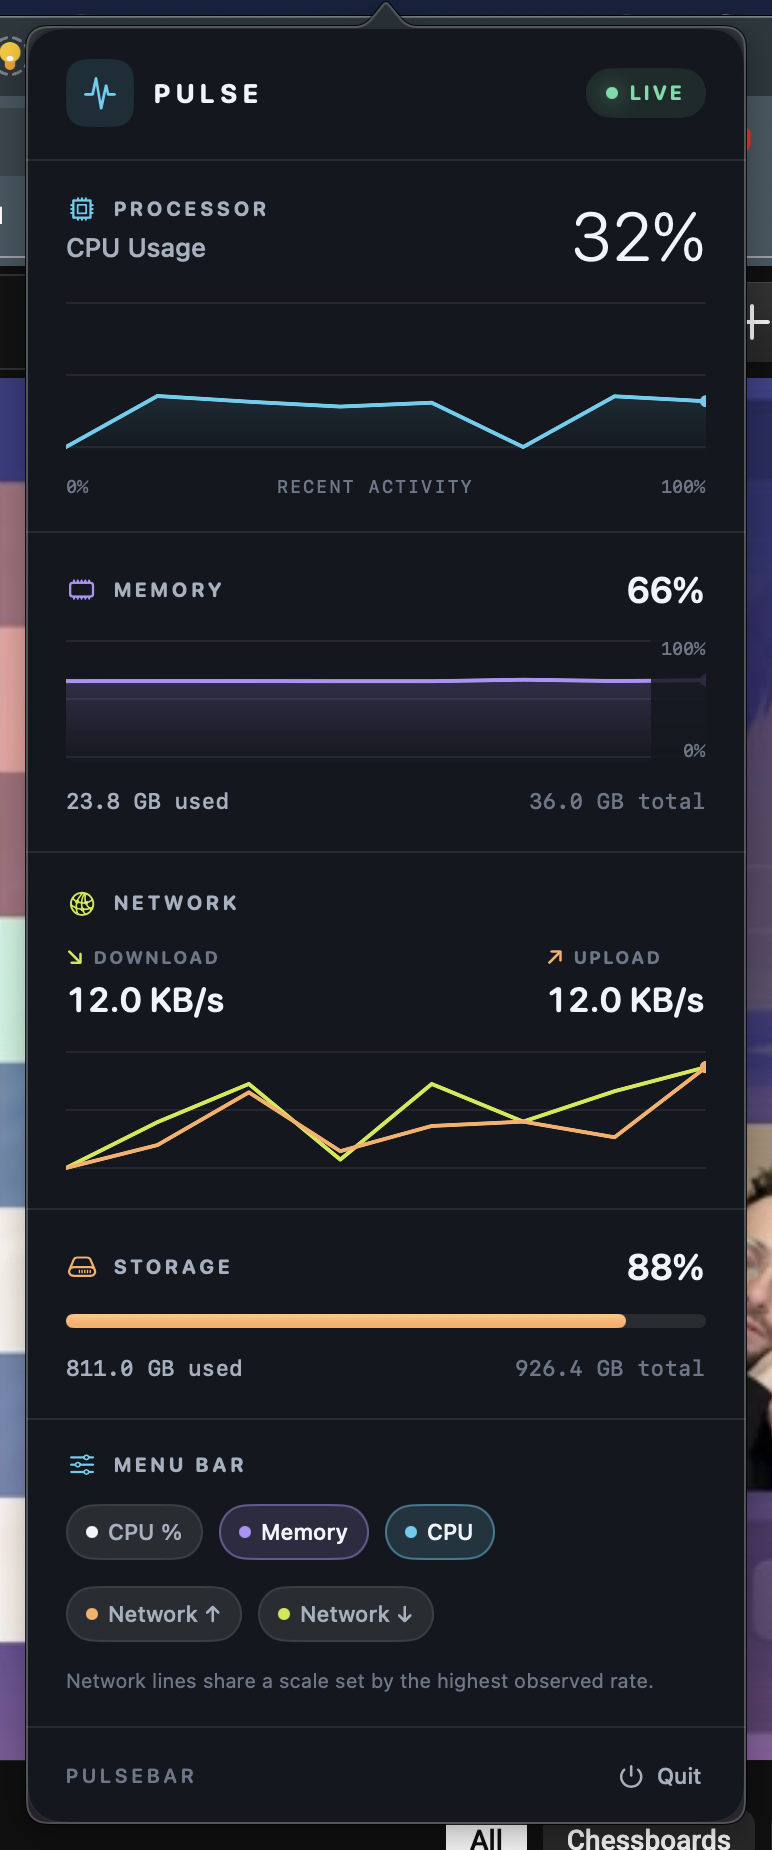
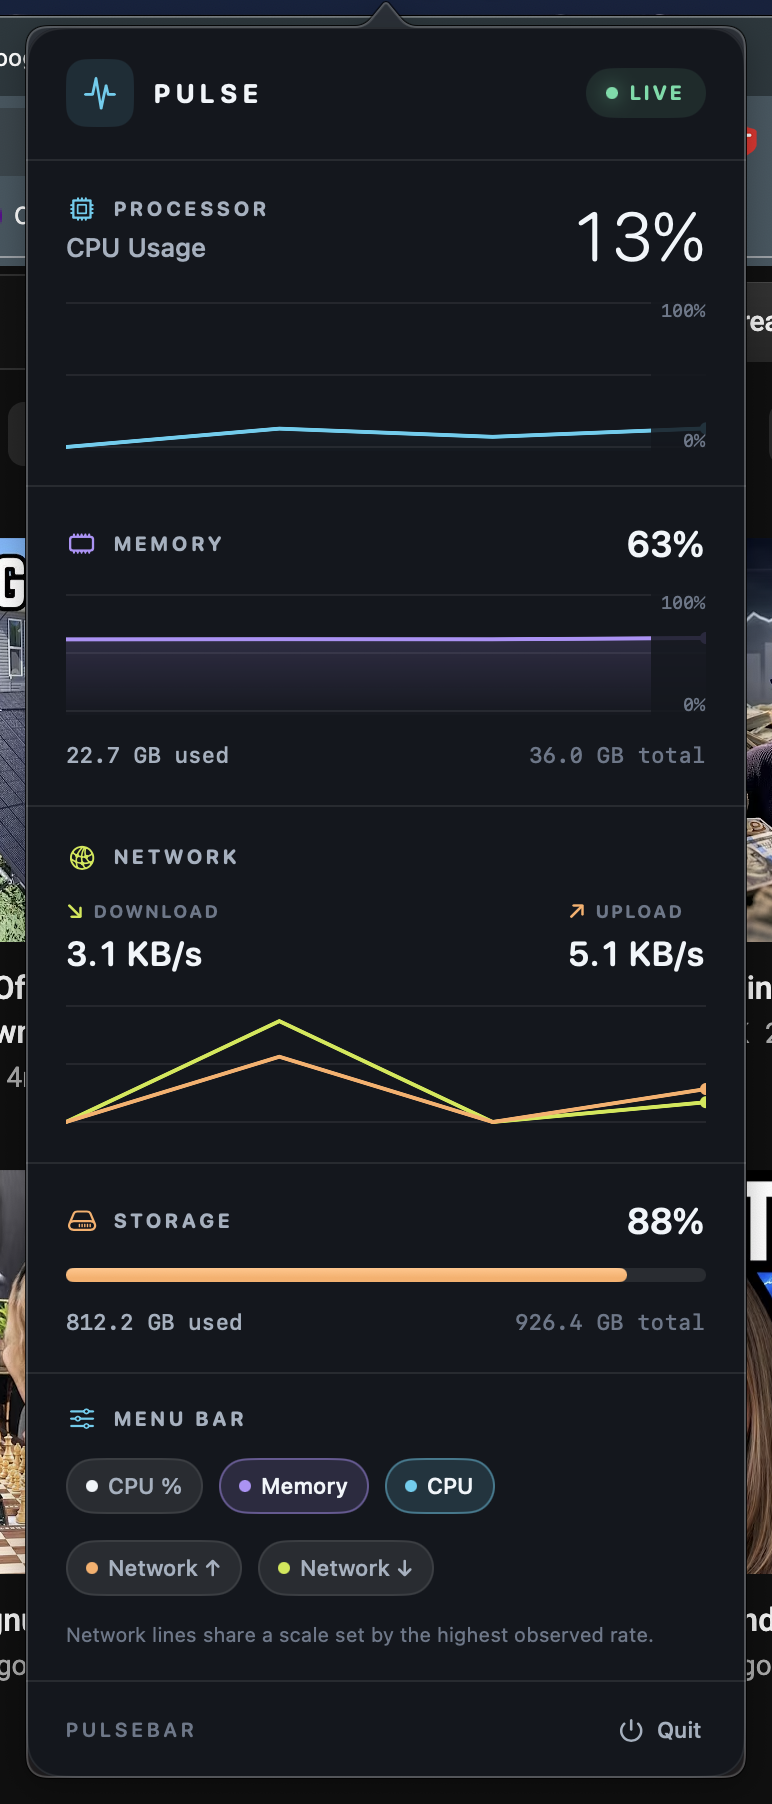
Align CPU graph axis vertically with memory

diff --git a/Sources/PulseBar/MonitorView.swift b/Sources/PulseBar/MonitorView.swift
@@ -95,17 +95,10 @@ struct MonitorView: View {
                 fillFirst: true
             )
             .frame(height: 76)
-
-            HStack {
-                Text("0%")
-                Spacer()
-                Text("RECENT ACTIVITY")
-                    .tracking(1)
-                Spacer()
-                Text("100%")
+            .overlay(alignment: .trailing) {
+                verticalPercentAxis
             }
-            .font(.system(size: 9, weight: .medium, design: .monospaced))
-            .foregroundStyle(Palette.muted)
+            .accessibilityLabel("CPU history, zero to one hundred percent")
         }
         .padding(.horizontal, 20)
         .padding(.vertical, 17)
@@ -129,15 +122,7 @@ struct MonitorView: View {
             )
             .frame(height: 62)
             .overlay(alignment: .trailing) {
-                VStack(alignment: .trailing) {
-                    Text("100%")
-                    Spacer()
-                    Text("0%")
-                }
-                .font(.system(size: 9, weight: .medium, design: .monospaced))
-                .foregroundStyle(Palette.muted)
-                .padding(.leading, 5)
-                .background(Palette.background.opacity(0.85))
+                verticalPercentAxis
             }
             .accessibilityLabel("Memory history, zero to one hundred percent")
 
@@ -270,6 +255,18 @@ struct MonitorView: View {
         .padding(.leading, 20)
         .padding(.trailing, 12)
         .padding(.vertical, 10)
+    }
+
+    private var verticalPercentAxis: some View {
+        VStack(alignment: .trailing) {
+            Text("100%")
+            Spacer()
+            Text("0%")
+        }
+        .font(.system(size: 9, weight: .medium, design: .monospaced))
+        .foregroundStyle(Palette.muted)
+        .padding(.leading, 5)
+        .background(Palette.background.opacity(0.85))
     }
 
     private var separator: some View {
